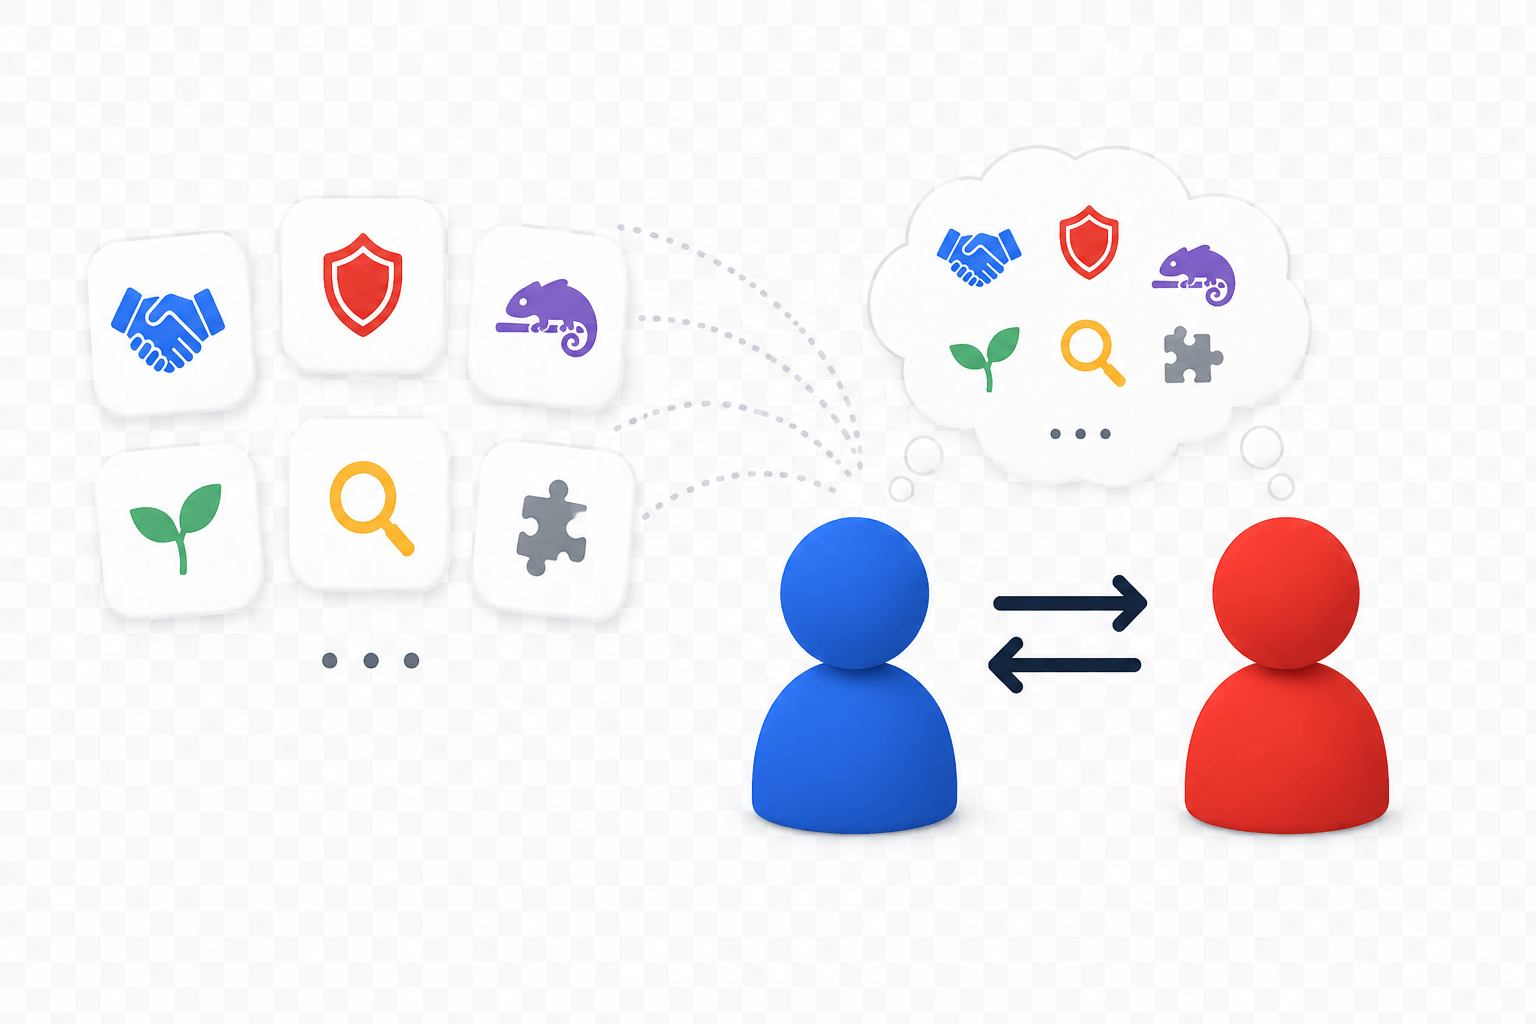
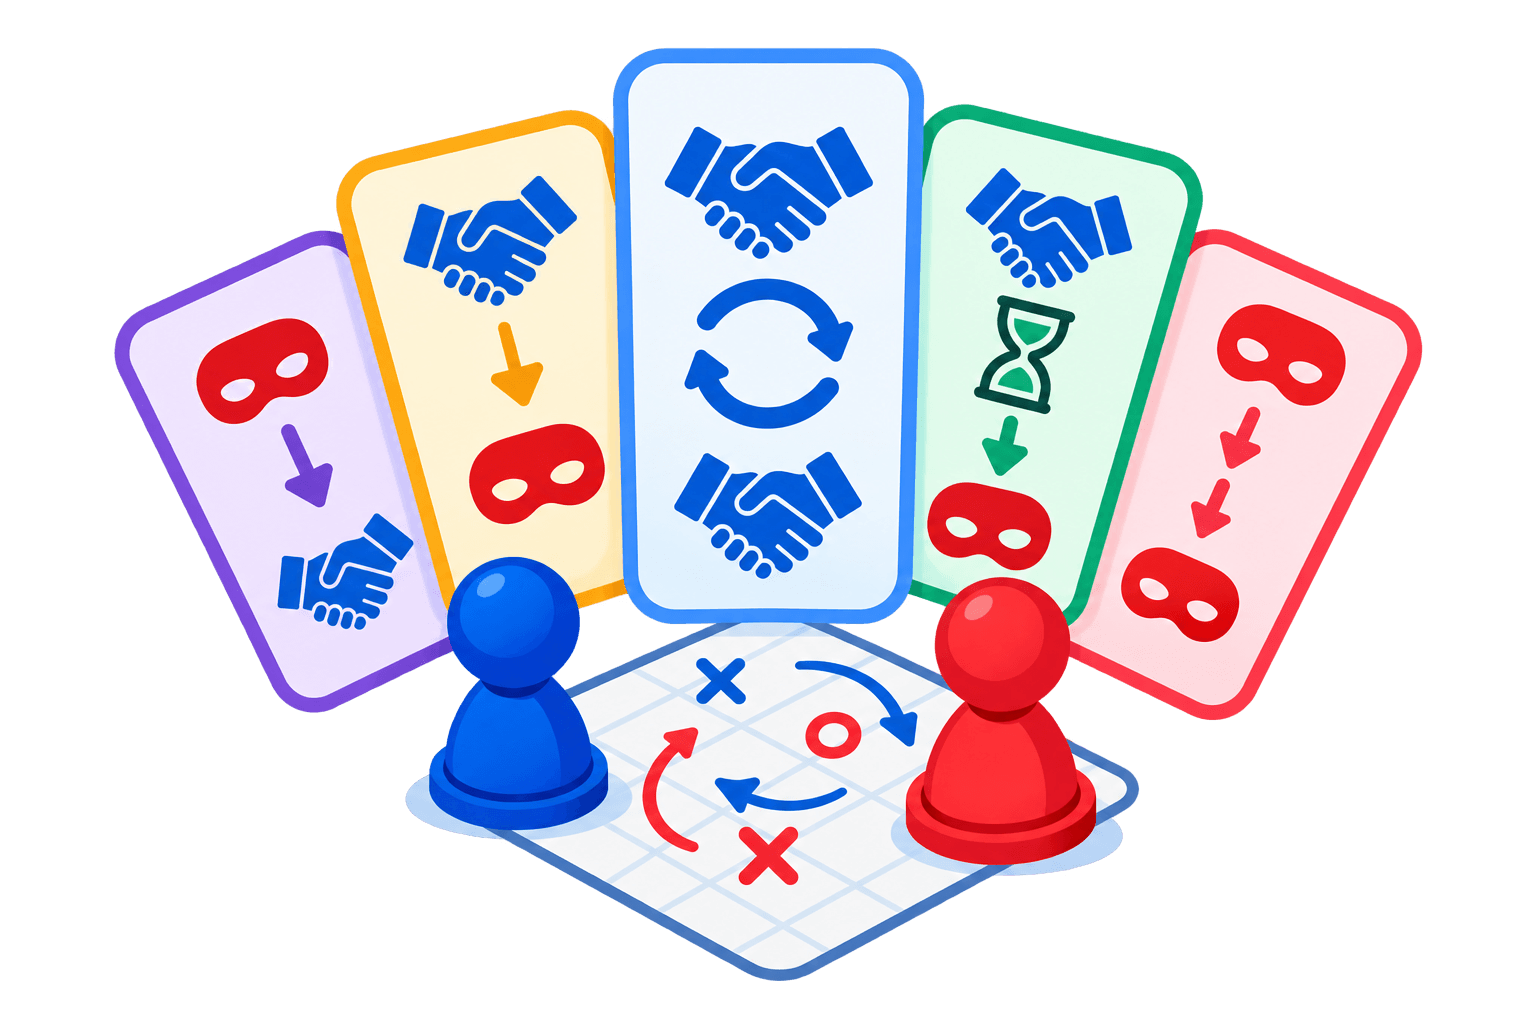
Add changes from trialling for version 2

diff --git a/app/templates/play.html b/app/templates/play.html
@@ -42,7 +42,7 @@
 				<div class="bottom">
 					<h4 class="result_title inter">Result:</h4>
 					<p class="explanation roboto">
-						As you play explanations will be given... Try to exploit the tit for tat strategy.
+						As you play explanations will be given...<br />Try to exploit the tit for tat strategy.
 					</p>
 				</div>
 			</div>
@@ -145,7 +145,7 @@
 				<div class="bottom">
 					<h4 class="result_title inter">Result:</h4>
 					<p class="explanation roboto">
-						As you play explanations will be given... Try to identify what this strategy does then exploit it.
+						As you play explanations will be given...<br />Try to identify what this strategy does then exploit it.
 					</p>
 				</div>
 			</div>
@@ -248,8 +248,8 @@
 				<div class="bottom">
 					<h4 class="result_title inter">Result:</h4>
 					<p class="explanation roboto">
-						As you play explanations will be given... See if you can exploit this while keeping as high of a score as
-						possible.
+						As you play explanations will be given...<br />See if you can exploit this while keeping as high of a score
+						as possible.
 					</p>
 				</div>
 			</div>
@@ -353,7 +353,7 @@
 				<div class="bottom">
 					<h4 class="result_title inter">Result:</h4>
 					<p class="explanation roboto">
-						As you play explanations will be given... Try and figure out if there's a pattern to this one.
+						As you play explanations will be given...<br />Try and figure out if there's a pattern to this one.
 					</p>
 				</div>
 			</div>
@@ -456,7 +456,9 @@
 				</div>
 				<div class="bottom">
 					<h4 class="result_title inter">Result:</h4>
-					<p class="explanation roboto">As you play explanations will be given... Try and exploit this strategy.</p>
+					<p class="explanation roboto">
+						As you play explanations will be given...<br />Try and exploit this strategy.
+					</p>
 				</div>
 			</div>
 			<table class="roboto">
@@ -558,7 +560,9 @@
 				</div>
 				<div class="bottom">
 					<h4 class="result_title inter">Result:</h4>
-					<p class="explanation roboto">As you play explanations will be given... Try not to lose to this strategy.</p>
+					<p class="explanation roboto">
+						As you play explanations will be given...<br />Try not to lose to this strategy.
+					</p>
 				</div>
 			</div>
 			<table class="roboto">
@@ -660,7 +664,7 @@
 				</div>
 				<div class="bottom">
 					<h4 class="result_title inter">Result:</h4>
-					<p class="explanation roboto">As you play explanations will be given... Be careful...</p>
+					<p class="explanation roboto">As you play explanations will be given...<br />Be careful...</p>
 				</div>
 			</div>
 			<table class="roboto">
@@ -763,8 +767,8 @@
 				<div class="bottom">
 					<h4 class="result_title inter">Result:</h4>
 					<p class="explanation roboto">
-						As you play explanations will be given... This one is a little more complex, try to identify then exploit
-						it.
+						As you play explanations will be given...<br />This one is a little more complex, try to identify then
+						exploit it.
 					</p>
 				</div>
 			</div>

diff --git a/app/static/css/style.css b/app/static/css/style.css
@@ -231,7 +231,7 @@ dfn {
 
 .content_img,
 #home_CTA {
-    height: 300px;
+    height: 400px;
 }
 
 #home_CTA {
@@ -442,5 +442,19 @@ tr:last-child td {
         width: auto;
         max-width: 100%;
         overflow-wrap: break-word;
+    }
+
+    h1 {
+        font-size: 4rem;
+        text-align: center;
+        padding: 1rem;
+    }
+
+    h3 {
+        font-size: 2rem;
+    }
+
+    h4 {
+        font-size: 1.5rem;
     }
 }
